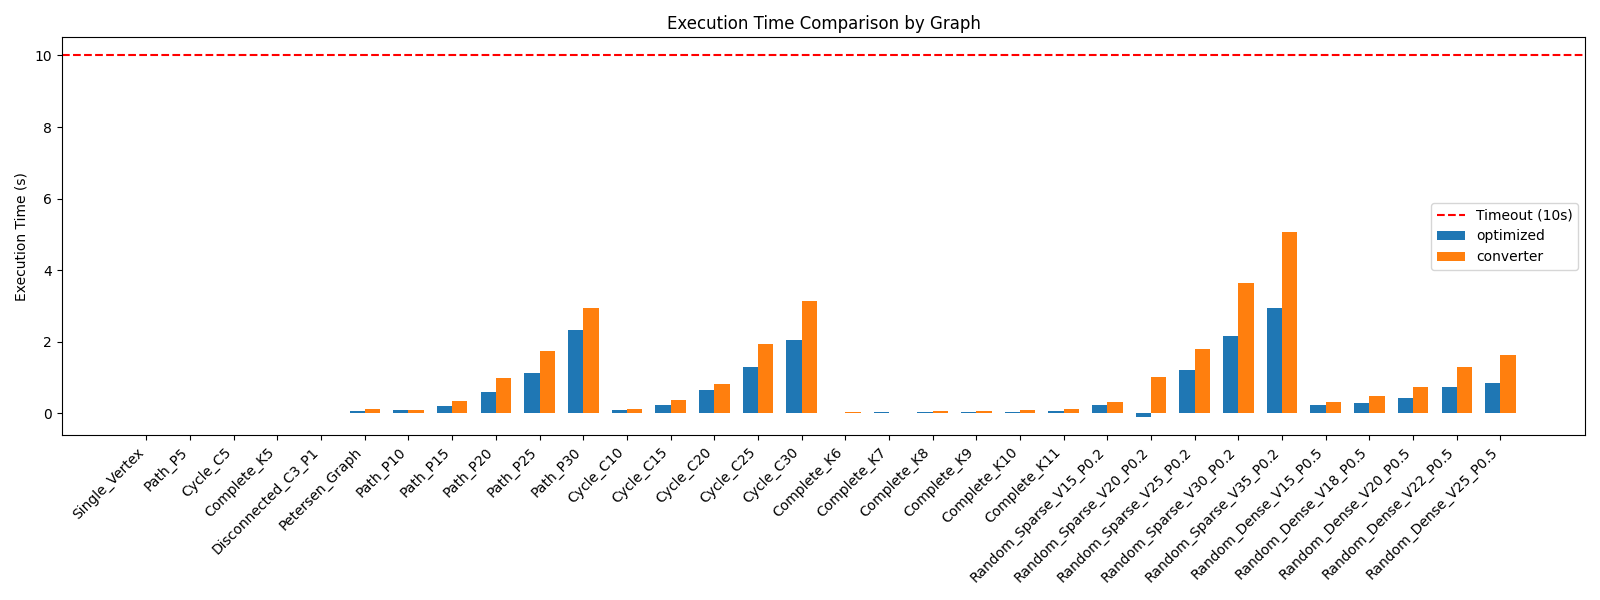
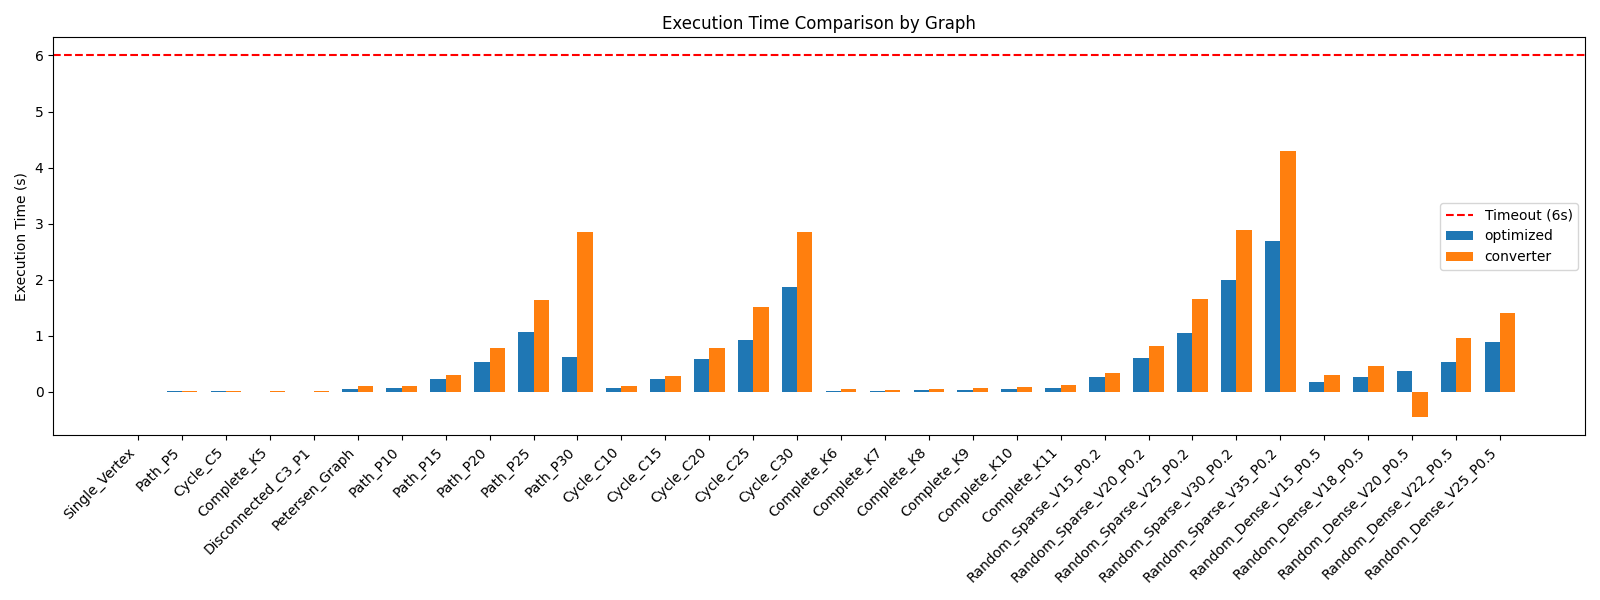
changed graph a bit

diff --git a/backend/HamToSAT/stress_test_results.tex b/backend/HamToSAT/stress_test_results.tex
@@ -34,67 +34,67 @@
 \endlastfoot
 Single\_Vertex & 1 & 0 & UNSAT / Incomplete & 0.000 & UNSAT / Incomplete & 0.000 \\
 \midrule
-Path\_P5 & 5 & 4 & 4 -\textgreater{} 3 -\textgreater{} 2 -\textgreater{} 1 -\textgreater{} 0 & 0.009 & 4 -\textgreater{} 3 -\textgreater{} 2 -\textgreater{} 1 -\textgreater{} 0 & 0.017 \\
+Path\_P5 & 5 & 4 & 4 -\textgreater{} 3 -\textgreater{} 2 -\textgreater{} 1 -\textgreater{} 0 & 0.020 & 4 -\textgreater{} 3 -\textgreater{} 2 -\textgreater{} 1 -\textgreater{} 0 & 0.012 \\
 \midrule
-Cycle\_C5 & 5 & 5 & 4 -\textgreater{} 3 -\textgreater{} 2 -\textgreater{} 1 -\textgreater{} 0 & 0.011 & 4 -\textgreater{} 3 -\textgreater{} 2 -\textgreater{} 1 -\textgreater{} 0 & 0.015 \\
+Cycle\_C5 & 5 & 5 & 4 -\textgreater{} 3 -\textgreater{} 2 -\textgreater{} 1 -\textgreater{} 0 & 0.012 & 4 -\textgreater{} 3 -\textgreater{} 2 -\textgreater{} 1 -\textgreater{} 0 & 0.011 \\
 \midrule
-Complete\_K5 & 5 & 10 & 4 -\textgreater{} 3 -\textgreater{} 2 -\textgreater{} 1 -\textgreater{} 0 & 0.011 & 4 -\textgreater{} 3 -\textgreater{} 2 -\textgreater{} 1 -\textgreater{} 0 & 0.011 \\
+Complete\_K5 & 5 & 10 & 4 -\textgreater{} 3 -\textgreater{} 2 -\textgreater{} 1 -\textgreater{} 0 & 0.007 & 4 -\textgreater{} 3 -\textgreater{} 2 -\textgreater{} 1 -\textgreater{} 0 & 0.011 \\
 \midrule
-Disconnected\_C3\_P1 & 4 & 3 & None (UNSAT/Error) & 0.008 & None (UNSAT/Error) & 0.010 \\
+Disconnected\_C3\_P1 & 4 & 3 & None (UNSAT/Error) & 0.006 & None (UNSAT/Error) & 0.010 \\
 \midrule
-Petersen\_Graph & 10 & 15 & 9 -\textgreater{} 6 -\textgreater{} 8 -\textgreater{} 5 -\textgreater{} 7 -\textgreater{} 2 -\textgreater{} 3 -\textgreater{} 4 -\textgreater{} 0 -\textgreater{} 1 & 0.073 & 9 -\textgreater{} 6 -\textgreater{} 8 -\textgreater{} 5 -\textgreater{} 7 -\textgreater{} 2 -\textgreater{} 3 -\textgreater{} 4 -\textgreater{} 0 -\textgreater{} 1 & 0.128 \\
+Petersen\_Graph & 10 & 15 & 9 -\textgreater{} 6 -\textgreater{} 8 -\textgreater{} 5 -\textgreater{} 7 -\textgreater{} 2 -\textgreater{} 3 -\textgreater{} 4 -\textgreater{} 0 -\textgreater{} 1 & 0.059 & 9 -\textgreater{} 6 -\textgreater{} 8 -\textgreater{} 5 -\textgreater{} 7 -\textgreater{} 2 -\textgreater{} 3 -\textgreater{} 4 -\textgreater{} 0 -\textgreater{} 1 & 0.103 \\
 \midrule
-Path\_P10 & 10 & 9 & 9 -\textgreater{} 8 -\textgreater{} 7 -\textgreater{} 6 -\textgreater{} 5 -\textgreater{} 4 -\textgreater{} 3 -\textgreater{} 2 -\textgreater{} 1 -\textgreater{} 0 & 0.081 & 9 -\textgreater{} 8 -\textgreater{} 7 -\textgreater{} 6 -\textgreater{} 5 -\textgreater{} 4 -\textgreater{} 3 -\textgreater{} 2 -\textgreater{} 1 -\textgreater{} 0 & 0.106 \\
+Path\_P10 & 10 & 9 & 9 -\textgreater{} 8 -\textgreater{} 7 -\textgreater{} 6 -\textgreater{} 5 -\textgreater{} 4 -\textgreater{} 3 -\textgreater{} 2 -\textgreater{} 1 -\textgreater{} 0 & 0.064 & 9 -\textgreater{} 8 -\textgreater{} 7 -\textgreater{} 6 -\textgreater{} 5 -\textgreater{} 4 -\textgreater{} 3 -\textgreater{} 2 -\textgreater{} 1 -\textgreater{} 0 & 0.098 \\
 \midrule
-Path\_P15 & 15 & 14 & 14 -\textgreater{} 13 -\textgreater{} 12 -\textgreater{} 11 -\textgreater{} 10 -\textgreater{} 9 -\textgreater{} 8 -\textgreater{} 7 -\textgreater{} 6 -\textgreater{} 5 -\textgreater{} 4 -\textgreater{} 3 -\textgreater{} 2 -\textgreater{} 1 -\textgreater{} 0 & 0.217 & 0 -\textgreater{} 1 -\textgreater{} 2 -\textgreater{} 3 -\textgreater{} 4 -\textgreater{} 5 -\textgreater{} 6 -\textgreater{} 7 -\textgreater{} 8 -\textgreater{} 9 -\textgreater{} 10 -\textgreater{} 11 -\textgreater{} 12 -\textgreater{} 13 -\textgreater{} 14 & 0.343 \\
+Path\_P15 & 15 & 14 & 14 -\textgreater{} 13 -\textgreater{} 12 -\textgreater{} 11 -\textgreater{} 10 -\textgreater{} 9 -\textgreater{} 8 -\textgreater{} 7 -\textgreater{} 6 -\textgreater{} 5 -\textgreater{} 4 -\textgreater{} 3 -\textgreater{} 2 -\textgreater{} 1 -\textgreater{} 0 & 0.223 & 0 -\textgreater{} 1 -\textgreater{} 2 -\textgreater{} 3 -\textgreater{} 4 -\textgreater{} 5 -\textgreater{} 6 -\textgreater{} 7 -\textgreater{} 8 -\textgreater{} 9 -\textgreater{} 10 -\textgreater{} 11 -\textgreater{} 12 -\textgreater{} 13 -\textgreater{} 14 & 0.305 \\
 \midrule
-Path\_P20 & 20 & 19 & 19 -\textgreater{} 18 -\textgreater{} 17 -\textgreater{} 16 -\textgreater{} 15 -\textgreater{} 14 -\textgreater{} 13 -\textgreater{} 12 -\textgreater{} 11 -\textgreater{} 10 -\textgreater{} 9 -\textgreater{} 8 -\textgreater{} 7 -\textgreater{} 6 -\textgreater{} 5 -\textgreater{} 4 -\textgreater{} 3 -\textgreater{} 2 -\textgreater{} 1 -\textgreater{} 0 & 0.598 & 19 -\textgreater{} 18 -\textgreater{} 17 -\textgreater{} 16 -\textgreater{} 15 -\textgreater{} 14 -\textgreater{} 13 -\textgreater{} 12 -\textgreater{} 11 -\textgreater{} 10 -\textgreater{} 9 -\textgreater{} 8 -\textgreater{} 7 -\textgreater{} 6 -\textgreater{} 5 -\textgreater{} 4 -\textgreater{} 3 -\textgreater{} 2 -\textgreater{} 1 -\textgreater{} 0 & 0.996 \\
+Path\_P20 & 20 & 19 & 19 -\textgreater{} 18 -\textgreater{} 17 -\textgreater{} 16 -\textgreater{} 15 -\textgreater{} 14 -\textgreater{} 13 -\textgreater{} 12 -\textgreater{} 11 -\textgreater{} 10 -\textgreater{} 9 -\textgreater{} 8 -\textgreater{} 7 -\textgreater{} 6 -\textgreater{} 5 -\textgreater{} 4 -\textgreater{} 3 -\textgreater{} 2 -\textgreater{} 1 -\textgreater{} 0 & 0.526 & 19 -\textgreater{} 18 -\textgreater{} 17 -\textgreater{} 16 -\textgreater{} 15 -\textgreater{} 14 -\textgreater{} 13 -\textgreater{} 12 -\textgreater{} 11 -\textgreater{} 10 -\textgreater{} 9 -\textgreater{} 8 -\textgreater{} 7 -\textgreater{} 6 -\textgreater{} 5 -\textgreater{} 4 -\textgreater{} 3 -\textgreater{} 2 -\textgreater{} 1 -\textgreater{} 0 & 0.779 \\
 \midrule
-Path\_P25 & 25 & 24 & 24 -\textgreater{} 23 -\textgreater{} 22 -\textgreater{} 21 -\textgreater{} 20 -\textgreater{} 19 -\textgreater{} 18 -\textgreater{} 17 -\textgreater{} 16 -\textgreater{} 15 -\textgreater{} 14 -\textgreater{} 13 -\textgreater{} 12 -\textgreater{} 11 -\textgreater{} 10 -\textgreater{} 9 -\textgreater{} 8 -\textgreater{} 7 -\textgreater{} 6 -\textgreater{} 5 -\textgreater{} 4 -\textgreater{} 3 -\textgreater{} 2 -\textgreater{} 1 -\textgreater{} 0 & 1.115 & 24 -\textgreater{} 23 -\textgreater{} 22 -\textgreater{} 21 -\textgreater{} 20 -\textgreater{} 19 -\textgreater{} 18 -\textgreater{} 17 -\textgreater{} 16 -\textgreater{} 15 -\textgreater{} 14 -\textgreater{} 13 -\textgreater{} 12 -\textgreater{} 11 -\textgreater{} 10 -\textgreater{} 9 -\textgreater{} 8 -\textgreater{} 7 -\textgreater{} 6 -\textgreater{} 5 -\textgreater{} 4 -\textgreater{} 3 -\textgreater{} 2 -\textgreater{} 1 -\textgreater{} 0 & 1.737 \\
+Path\_P25 & 25 & 24 & 24 -\textgreater{} 23 -\textgreater{} 22 -\textgreater{} 21 -\textgreater{} 20 -\textgreater{} 19 -\textgreater{} 18 -\textgreater{} 17 -\textgreater{} 16 -\textgreater{} 15 -\textgreater{} 14 -\textgreater{} 13 -\textgreater{} 12 -\textgreater{} 11 -\textgreater{} 10 -\textgreater{} 9 -\textgreater{} 8 -\textgreater{} 7 -\textgreater{} 6 -\textgreater{} 5 -\textgreater{} 4 -\textgreater{} 3 -\textgreater{} 2 -\textgreater{} 1 -\textgreater{} 0 & 1.063 & 24 -\textgreater{} 23 -\textgreater{} 22 -\textgreater{} 21 -\textgreater{} 20 -\textgreater{} 19 -\textgreater{} 18 -\textgreater{} 17 -\textgreater{} 16 -\textgreater{} 15 -\textgreater{} 14 -\textgreater{} 13 -\textgreater{} 12 -\textgreater{} 11 -\textgreater{} 10 -\textgreater{} 9 -\textgreater{} 8 -\textgreater{} 7 -\textgreater{} 6 -\textgreater{} 5 -\textgreater{} 4 -\textgreater{} 3 -\textgreater{} 2 -\textgreater{} 1 -\textgreater{} 0 & 1.636 \\
 \midrule
-Path\_P30 & 30 & 29 & 29 -\textgreater{} 28 -\textgreater{} 27 -\textgreater{} 26 -\textgreater{} 25 -\textgreater{} 24 -\textgreater{} 23 -\textgreater{} 22 -\textgreater{} 21 -\textgreater{} 20 -\textgreater{} 19 -\textgreater{} 18 -\textgreater{} 17 -\textgreater{} 16 -\textgreater{} 15 -\textgreater{} 14 -\textgreater{} 13 -\textgreater{} 12 -\textgreater{} 11 -\textgreater{} 10 -\textgreater{} 9 -\textgreater{} 8 -\textgreater{} 7 -\textgreater{} 6 -\textgreater{} 5 -\textgreater{} 4 -\textgreater{} 3 -\textgreater{} 2 -\textgreater{} 1 -\textgreater{} 0 & 2.318 & 29 -\textgreater{} 28 -\textgreater{} 27 -\textgreater{} 26 -\textgreater{} 25 -\textgreater{} 24 -\textgreater{} 23 -\textgreater{} 22 -\textgreater{} 21 -\textgreater{} 20 -\textgreater{} 19 -\textgreater{} 18 -\textgreater{} 17 -\textgreater{} 16 -\textgreater{} 15 -\textgreater{} 14 -\textgreater{} 13 -\textgreater{} 12 -\textgreater{} 11 -\textgreater{} 10 -\textgreater{} 9 -\textgreater{} 8 -\textgreater{} 7 -\textgreater{} 6 -\textgreater{} 5 -\textgreater{} 4 -\textgreater{} 3 -\textgreater{} 2 -\textgreater{} 1 -\textgreater{} 0 & 2.935 \\
+Path\_P30 & 30 & 29 & 29 -\textgreater{} 28 -\textgreater{} 27 -\textgreater{} 26 -\textgreater{} 25 -\textgreater{} 24 -\textgreater{} 23 -\textgreater{} 22 -\textgreater{} 21 -\textgreater{} 20 -\textgreater{} 19 -\textgreater{} 18 -\textgreater{} 17 -\textgreater{} 16 -\textgreater{} 15 -\textgreater{} 14 -\textgreater{} 13 -\textgreater{} 12 -\textgreater{} 11 -\textgreater{} 10 -\textgreater{} 9 -\textgreater{} 8 -\textgreater{} 7 -\textgreater{} 6 -\textgreater{} 5 -\textgreater{} 4 -\textgreater{} 3 -\textgreater{} 2 -\textgreater{} 1 -\textgreater{} 0 & 0.626 & 29 -\textgreater{} 28 -\textgreater{} 27 -\textgreater{} 26 -\textgreater{} 25 -\textgreater{} 24 -\textgreater{} 23 -\textgreater{} 22 -\textgreater{} 21 -\textgreater{} 20 -\textgreater{} 19 -\textgreater{} 18 -\textgreater{} 17 -\textgreater{} 16 -\textgreater{} 15 -\textgreater{} 14 -\textgreater{} 13 -\textgreater{} 12 -\textgreater{} 11 -\textgreater{} 10 -\textgreater{} 9 -\textgreater{} 8 -\textgreater{} 7 -\textgreater{} 6 -\textgreater{} 5 -\textgreater{} 4 -\textgreater{} 3 -\textgreater{} 2 -\textgreater{} 1 -\textgreater{} 0 & 2.855 \\
 \midrule
-Cycle\_C10 & 10 & 10 & 9 -\textgreater{} 8 -\textgreater{} 7 -\textgreater{} 6 -\textgreater{} 5 -\textgreater{} 4 -\textgreater{} 3 -\textgreater{} 2 -\textgreater{} 1 -\textgreater{} 0 & 0.081 & 9 -\textgreater{} 8 -\textgreater{} 7 -\textgreater{} 6 -\textgreater{} 5 -\textgreater{} 4 -\textgreater{} 3 -\textgreater{} 2 -\textgreater{} 1 -\textgreater{} 0 & 0.131 \\
+Cycle\_C10 & 10 & 10 & 9 -\textgreater{} 8 -\textgreater{} 7 -\textgreater{} 6 -\textgreater{} 5 -\textgreater{} 4 -\textgreater{} 3 -\textgreater{} 2 -\textgreater{} 1 -\textgreater{} 0 & 0.071 & 9 -\textgreater{} 8 -\textgreater{} 7 -\textgreater{} 6 -\textgreater{} 5 -\textgreater{} 4 -\textgreater{} 3 -\textgreater{} 2 -\textgreater{} 1 -\textgreater{} 0 & 0.103 \\
 \midrule
-Cycle\_C15 & 15 & 15 & 14 -\textgreater{} 0 -\textgreater{} 1 -\textgreater{} 2 -\textgreater{} 3 -\textgreater{} 4 -\textgreater{} 5 -\textgreater{} 6 -\textgreater{} 7 -\textgreater{} 8 -\textgreater{} 9 -\textgreater{} 10 -\textgreater{} 11 -\textgreater{} 12 -\textgreater{} 13 & 0.237 & 14 -\textgreater{} 0 -\textgreater{} 1 -\textgreater{} 2 -\textgreater{} 3 -\textgreater{} 4 -\textgreater{} 5 -\textgreater{} 6 -\textgreater{} 7 -\textgreater{} 8 -\textgreater{} 9 -\textgreater{} 10 -\textgreater{} 11 -\textgreater{} 12 -\textgreater{} 13 & 0.360 \\
+Cycle\_C15 & 15 & 15 & 14 -\textgreater{} 0 -\textgreater{} 1 -\textgreater{} 2 -\textgreater{} 3 -\textgreater{} 4 -\textgreater{} 5 -\textgreater{} 6 -\textgreater{} 7 -\textgreater{} 8 -\textgreater{} 9 -\textgreater{} 10 -\textgreater{} 11 -\textgreater{} 12 -\textgreater{} 13 & 0.227 & 14 -\textgreater{} 0 -\textgreater{} 1 -\textgreater{} 2 -\textgreater{} 3 -\textgreater{} 4 -\textgreater{} 5 -\textgreater{} 6 -\textgreater{} 7 -\textgreater{} 8 -\textgreater{} 9 -\textgreater{} 10 -\textgreater{} 11 -\textgreater{} 12 -\textgreater{} 13 & 0.281 \\
 \midrule
-Cycle\_C20 & 20 & 20 & 19 -\textgreater{} 18 -\textgreater{} 17 -\textgreater{} 16 -\textgreater{} 15 -\textgreater{} 14 -\textgreater{} 13 -\textgreater{} 12 -\textgreater{} 11 -\textgreater{} 10 -\textgreater{} 9 -\textgreater{} 8 -\textgreater{} 7 -\textgreater{} 6 -\textgreater{} 5 -\textgreater{} 4 -\textgreater{} 3 -\textgreater{} 2 -\textgreater{} 1 -\textgreater{} 0 & 0.647 & 19 -\textgreater{} 18 -\textgreater{} 17 -\textgreater{} 16 -\textgreater{} 15 -\textgreater{} 14 -\textgreater{} 13 -\textgreater{} 12 -\textgreater{} 11 -\textgreater{} 10 -\textgreater{} 9 -\textgreater{} 8 -\textgreater{} 7 -\textgreater{} 6 -\textgreater{} 5 -\textgreater{} 4 -\textgreater{} 3 -\textgreater{} 2 -\textgreater{} 1 -\textgreater{} 0 & 0.831 \\
+Cycle\_C20 & 20 & 20 & 19 -\textgreater{} 18 -\textgreater{} 17 -\textgreater{} 16 -\textgreater{} 15 -\textgreater{} 14 -\textgreater{} 13 -\textgreater{} 12 -\textgreater{} 11 -\textgreater{} 10 -\textgreater{} 9 -\textgreater{} 8 -\textgreater{} 7 -\textgreater{} 6 -\textgreater{} 5 -\textgreater{} 4 -\textgreater{} 3 -\textgreater{} 2 -\textgreater{} 1 -\textgreater{} 0 & 0.584 & 19 -\textgreater{} 18 -\textgreater{} 17 -\textgreater{} 16 -\textgreater{} 15 -\textgreater{} 14 -\textgreater{} 13 -\textgreater{} 12 -\textgreater{} 11 -\textgreater{} 10 -\textgreater{} 9 -\textgreater{} 8 -\textgreater{} 7 -\textgreater{} 6 -\textgreater{} 5 -\textgreater{} 4 -\textgreater{} 3 -\textgreater{} 2 -\textgreater{} 1 -\textgreater{} 0 & 0.790 \\
 \midrule
-Cycle\_C25 & 25 & 25 & 24 -\textgreater{} 0 -\textgreater{} 1 -\textgreater{} 2 -\textgreater{} 3 -\textgreater{} 4 -\textgreater{} 5 -\textgreater{} 6 -\textgreater{} 7 -\textgreater{} 8 -\textgreater{} 9 -\textgreater{} 10 -\textgreater{} 11 -\textgreater{} 12 -\textgreater{} 13 -\textgreater{} 14 -\textgreater{} 15 -\textgreater{} 16 -\textgreater{} 17 -\textgreater{} 18 -\textgreater{} 19 -\textgreater{} 20 -\textgreater{} 21 -\textgreater{} 22 -\textgreater{} 23 & 1.284 & 23 -\textgreater{} 24 -\textgreater{} 0 -\textgreater{} 1 -\textgreater{} 2 -\textgreater{} 3 -\textgreater{} 4 -\textgreater{} 5 -\textgreater{} 6 -\textgreater{} 7 -\textgreater{} 8 -\textgreater{} 9 -\textgreater{} 10 -\textgreater{} 11 -\textgreater{} 12 -\textgreater{} 13 -\textgreater{} 14 -\textgreater{} 15 -\textgreater{} 16 -\textgreater{} 17 -\textgreater{} 18 -\textgreater{} 19 -\textgreater{} 20 -\textgreater{} 21 -\textgreater{} 22 & 1.929 \\
+Cycle\_C25 & 25 & 25 & 24 -\textgreater{} 0 -\textgreater{} 1 -\textgreater{} 2 -\textgreater{} 3 -\textgreater{} 4 -\textgreater{} 5 -\textgreater{} 6 -\textgreater{} 7 -\textgreater{} 8 -\textgreater{} 9 -\textgreater{} 10 -\textgreater{} 11 -\textgreater{} 12 -\textgreater{} 13 -\textgreater{} 14 -\textgreater{} 15 -\textgreater{} 16 -\textgreater{} 17 -\textgreater{} 18 -\textgreater{} 19 -\textgreater{} 20 -\textgreater{} 21 -\textgreater{} 22 -\textgreater{} 23 & 0.934 & 23 -\textgreater{} 24 -\textgreater{} 0 -\textgreater{} 1 -\textgreater{} 2 -\textgreater{} 3 -\textgreater{} 4 -\textgreater{} 5 -\textgreater{} 6 -\textgreater{} 7 -\textgreater{} 8 -\textgreater{} 9 -\textgreater{} 10 -\textgreater{} 11 -\textgreater{} 12 -\textgreater{} 13 -\textgreater{} 14 -\textgreater{} 15 -\textgreater{} 16 -\textgreater{} 17 -\textgreater{} 18 -\textgreater{} 19 -\textgreater{} 20 -\textgreater{} 21 -\textgreater{} 22 & 1.517 \\
 \midrule
-Cycle\_C30 & 30 & 30 & 29 -\textgreater{} 28 -\textgreater{} 27 -\textgreater{} 26 -\textgreater{} 25 -\textgreater{} 24 -\textgreater{} 23 -\textgreater{} 22 -\textgreater{} 21 -\textgreater{} 20 -\textgreater{} 19 -\textgreater{} 18 -\textgreater{} 17 -\textgreater{} 16 -\textgreater{} 15 -\textgreater{} 14 -\textgreater{} 13 -\textgreater{} 12 -\textgreater{} 11 -\textgreater{} 10 -\textgreater{} 9 -\textgreater{} 8 -\textgreater{} 7 -\textgreater{} 6 -\textgreater{} 5 -\textgreater{} 4 -\textgreater{} 3 -\textgreater{} 2 -\textgreater{} 1 -\textgreater{} 0 & 2.039 & 29 -\textgreater{} 28 -\textgreater{} 27 -\textgreater{} 26 -\textgreater{} 25 -\textgreater{} 24 -\textgreater{} 23 -\textgreater{} 22 -\textgreater{} 21 -\textgreater{} 20 -\textgreater{} 19 -\textgreater{} 18 -\textgreater{} 17 -\textgreater{} 16 -\textgreater{} 15 -\textgreater{} 14 -\textgreater{} 13 -\textgreater{} 12 -\textgreater{} 11 -\textgreater{} 10 -\textgreater{} 9 -\textgreater{} 8 -\textgreater{} 7 -\textgreater{} 6 -\textgreater{} 5 -\textgreater{} 4 -\textgreater{} 3 -\textgreater{} 2 -\textgreater{} 1 -\textgreater{} 0 & 3.125 \\
+Cycle\_C30 & 30 & 30 & 29 -\textgreater{} 28 -\textgreater{} 27 -\textgreater{} 26 -\textgreater{} 25 -\textgreater{} 24 -\textgreater{} 23 -\textgreater{} 22 -\textgreater{} 21 -\textgreater{} 20 -\textgreater{} 19 -\textgreater{} 18 -\textgreater{} 17 -\textgreater{} 16 -\textgreater{} 15 -\textgreater{} 14 -\textgreater{} 13 -\textgreater{} 12 -\textgreater{} 11 -\textgreater{} 10 -\textgreater{} 9 -\textgreater{} 8 -\textgreater{} 7 -\textgreater{} 6 -\textgreater{} 5 -\textgreater{} 4 -\textgreater{} 3 -\textgreater{} 2 -\textgreater{} 1 -\textgreater{} 0 & 1.868 & 29 -\textgreater{} 28 -\textgreater{} 27 -\textgreater{} 26 -\textgreater{} 25 -\textgreater{} 24 -\textgreater{} 23 -\textgreater{} 22 -\textgreater{} 21 -\textgreater{} 20 -\textgreater{} 19 -\textgreater{} 18 -\textgreater{} 17 -\textgreater{} 16 -\textgreater{} 15 -\textgreater{} 14 -\textgreater{} 13 -\textgreater{} 12 -\textgreater{} 11 -\textgreater{} 10 -\textgreater{} 9 -\textgreater{} 8 -\textgreater{} 7 -\textgreater{} 6 -\textgreater{} 5 -\textgreater{} 4 -\textgreater{} 3 -\textgreater{} 2 -\textgreater{} 1 -\textgreater{} 0 & 2.854 \\
 \midrule
-Complete\_K6 & 6 & 15 & 5 -\textgreater{} 4 -\textgreater{} 3 -\textgreater{} 2 -\textgreater{} 1 -\textgreater{} 0 & 0.015 & 5 -\textgreater{} 4 -\textgreater{} 3 -\textgreater{} 2 -\textgreater{} 1 -\textgreater{} 0 & 0.041 \\
+Complete\_K6 & 6 & 15 & 5 -\textgreater{} 4 -\textgreater{} 3 -\textgreater{} 2 -\textgreater{} 1 -\textgreater{} 0 & 0.017 & 5 -\textgreater{} 4 -\textgreater{} 3 -\textgreater{} 2 -\textgreater{} 1 -\textgreater{} 0 & 0.045 \\
 \midrule
-Complete\_K7 & 7 & 21 & 6 -\textgreater{} 4 -\textgreater{} 5 -\textgreater{} 3 -\textgreater{} 1 -\textgreater{} 2 -\textgreater{} 0 & 0.037 & 6 -\textgreater{} 4 -\textgreater{} 5 -\textgreater{} 3 -\textgreater{} 1 -\textgreater{} 2 -\textgreater{} 0 & 0.020 \\
+Complete\_K7 & 7 & 21 & 6 -\textgreater{} 4 -\textgreater{} 5 -\textgreater{} 3 -\textgreater{} 1 -\textgreater{} 2 -\textgreater{} 0 & 0.020 & 6 -\textgreater{} 4 -\textgreater{} 5 -\textgreater{} 3 -\textgreater{} 1 -\textgreater{} 2 -\textgreater{} 0 & 0.044 \\
 \midrule
-Complete\_K8 & 8 & 28 & 7 -\textgreater{} 6 -\textgreater{} 5 -\textgreater{} 4 -\textgreater{} 3 -\textgreater{} 2 -\textgreater{} 1 -\textgreater{} 0 & 0.029 & 7 -\textgreater{} 6 -\textgreater{} 5 -\textgreater{} 4 -\textgreater{} 3 -\textgreater{} 2 -\textgreater{} 1 -\textgreater{} 0 & 0.058 \\
+Complete\_K8 & 8 & 28 & 7 -\textgreater{} 6 -\textgreater{} 5 -\textgreater{} 4 -\textgreater{} 3 -\textgreater{} 2 -\textgreater{} 1 -\textgreater{} 0 & 0.027 & 7 -\textgreater{} 6 -\textgreater{} 5 -\textgreater{} 4 -\textgreater{} 3 -\textgreater{} 2 -\textgreater{} 1 -\textgreater{} 0 & 0.058 \\
 \midrule
-Complete\_K9 & 9 & 36 & 8 -\textgreater{} 7 -\textgreater{} 6 -\textgreater{} 5 -\textgreater{} 4 -\textgreater{} 3 -\textgreater{} 2 -\textgreater{} 1 -\textgreater{} 0 & 0.034 & 8 -\textgreater{} 7 -\textgreater{} 6 -\textgreater{} 5 -\textgreater{} 4 -\textgreater{} 3 -\textgreater{} 2 -\textgreater{} 1 -\textgreater{} 0 & 0.064 \\
+Complete\_K9 & 9 & 36 & 8 -\textgreater{} 7 -\textgreater{} 6 -\textgreater{} 5 -\textgreater{} 4 -\textgreater{} 3 -\textgreater{} 2 -\textgreater{} 1 -\textgreater{} 0 & 0.037 & 8 -\textgreater{} 7 -\textgreater{} 6 -\textgreater{} 5 -\textgreater{} 4 -\textgreater{} 3 -\textgreater{} 2 -\textgreater{} 1 -\textgreater{} 0 & 0.068 \\
 \midrule
-Complete\_K10 & 10 & 45 & 9 -\textgreater{} 8 -\textgreater{} 7 -\textgreater{} 6 -\textgreater{} 5 -\textgreater{} 4 -\textgreater{} 3 -\textgreater{} 2 -\textgreater{} 1 -\textgreater{} 0 & 0.045 & 9 -\textgreater{} 8 -\textgreater{} 7 -\textgreater{} 6 -\textgreater{} 5 -\textgreater{} 4 -\textgreater{} 3 -\textgreater{} 2 -\textgreater{} 1 -\textgreater{} 0 & 0.084 \\
+Complete\_K10 & 10 & 45 & 9 -\textgreater{} 8 -\textgreater{} 7 -\textgreater{} 6 -\textgreater{} 5 -\textgreater{} 4 -\textgreater{} 3 -\textgreater{} 2 -\textgreater{} 1 -\textgreater{} 0 & 0.047 & 9 -\textgreater{} 8 -\textgreater{} 7 -\textgreater{} 6 -\textgreater{} 5 -\textgreater{} 4 -\textgreater{} 3 -\textgreater{} 2 -\textgreater{} 1 -\textgreater{} 0 & 0.080 \\
 \midrule
-Complete\_K11 & 11 & 55 & 10 -\textgreater{} 9 -\textgreater{} 8 -\textgreater{} 7 -\textgreater{} 6 -\textgreater{} 5 -\textgreater{} 4 -\textgreater{} 2 -\textgreater{} 3 -\textgreater{} 1 -\textgreater{} 0 & 0.055 & 10 -\textgreater{} 9 -\textgreater{} 8 -\textgreater{} 7 -\textgreater{} 6 -\textgreater{} 5 -\textgreater{} 4 -\textgreater{} 2 -\textgreater{} 3 -\textgreater{} 1 -\textgreater{} 0 & 0.111 \\
+Complete\_K11 & 11 & 55 & 10 -\textgreater{} 9 -\textgreater{} 8 -\textgreater{} 7 -\textgreater{} 6 -\textgreater{} 5 -\textgreater{} 4 -\textgreater{} 2 -\textgreater{} 3 -\textgreater{} 1 -\textgreater{} 0 & 0.067 & 10 -\textgreater{} 9 -\textgreater{} 8 -\textgreater{} 7 -\textgreater{} 6 -\textgreater{} 5 -\textgreater{} 4 -\textgreater{} 2 -\textgreater{} 3 -\textgreater{} 1 -\textgreater{} 0 & 0.129 \\
 \midrule
-Random\_Sparse\_V15\_P0.2 & 15 & 22 & None (UNSAT/Error) & 0.232 & None (UNSAT/Error) & 0.323 \\
+Random\_Sparse\_V15\_P0.2 & 15 & 14 & None (UNSAT/Error) & 0.261 & None (UNSAT/Error) & 0.340 \\
 \midrule
-Random\_Sparse\_V20\_P0.2 & 20 & 43 & None (UNSAT/Error) & -0.112 & None (UNSAT/Error) & 1.008 \\
+Random\_Sparse\_V20\_P0.2 & 20 & 34 & 3 -\textgreater{} 6 -\textgreater{} 18 -\textgreater{} 5 -\textgreater{} 17 -\textgreater{} 4 -\textgreater{} 12 -\textgreater{} 2 -\textgreater{} 13 -\textgreater{} 16 -\textgreater{} 15 -\textgreater{} 1 -\textgreater{} 7 -\textgreater{} 11 -\textgreater{} 14 -\textgreater{} 10 -\textgreater{} 19 -\textgreater{} 0 -\textgreater{} 9 -\textgreater{} 8 & 0.599 & 3 -\textgreater{} 6 -\textgreater{} 18 -\textgreater{} 8 -\textgreater{} 9 -\textgreater{} 16 -\textgreater{} 15 -\textgreater{} 1 -\textgreater{} 7 -\textgreater{} 11 -\textgreater{} 14 -\textgreater{} 10 -\textgreater{} 19 -\textgreater{} 0 -\textgreater{} 13 -\textgreater{} 2 -\textgreater{} 12 -\textgreater{} 4 -\textgreater{} 17 -\textgreater{} 5 & 0.814 \\
 \midrule
-Random\_Sparse\_V25\_P0.2 & 25 & 61 & 1 -\textgreater{} 23 -\textgreater{} 3 -\textgreater{} 0 -\textgreater{} 12 -\textgreater{} 20 -\textgreater{} 19 -\textgreater{} 22 -\textgreater{} 9 -\textgreater{} 4 -\textgreater{} 6 -\textgreater{} 16 -\textgreater{} 11 -\textgreater{} 15 -\textgreater{} 24 -\textgreater{} 18 -\textgreater{} 8 -\textgreater{} 17 -\textgreater{} 10 -\textgreater{} 7 -\textgreater{} 21 -\textgreater{} 13 -\textgreater{} 14 -\textgreater{} 2 -\textgreater{} 5 & 1.220 & 1 -\textgreater{} 14 -\textgreater{} 22 -\textgreater{} 15 -\textgreater{} 5 -\textgreater{} 2 -\textgreater{} 3 -\textgreater{} 23 -\textgreater{} 4 -\textgreater{} 6 -\textgreater{} 16 -\textgreater{} 13 -\textgreater{} 21 -\textgreater{} 7 -\textgreater{} 9 -\textgreater{} 10 -\textgreater{} 17 -\textgreater{} 11 -\textgreater{} 0 -\textgreater{} 12 -\textgreater{} 8 -\textgreater{} 18 -\textgreater{} 24 -\textgreater{} 20 -\textgreater{} 19 & 1.788 \\
+Random\_Sparse\_V25\_P0.2 & 25 & 66 & 1 -\textgreater{} 13 -\textgreater{} 24 -\textgreater{} 11 -\textgreater{} 2 -\textgreater{} 12 -\textgreater{} 4 -\textgreater{} 20 -\textgreater{} 7 -\textgreater{} 6 -\textgreater{} 0 -\textgreater{} 16 -\textgreater{} 9 -\textgreater{} 22 -\textgreater{} 8 -\textgreater{} 19 -\textgreater{} 10 -\textgreater{} 14 -\textgreater{} 18 -\textgreater{} 15 -\textgreater{} 3 -\textgreater{} 21 -\textgreater{} 23 -\textgreater{} 5 -\textgreater{} 17 & 1.046 & 9 -\textgreater{} 4 -\textgreater{} 12 -\textgreater{} 2 -\textgreater{} 22 -\textgreater{} 1 -\textgreater{} 14 -\textgreater{} 18 -\textgreater{} 19 -\textgreater{} 8 -\textgreater{} 5 -\textgreater{} 17 -\textgreater{} 23 -\textgreater{} 21 -\textgreater{} 3 -\textgreater{} 15 -\textgreater{} 13 -\textgreater{} 10 -\textgreater{} 16 -\textgreater{} 0 -\textgreater{} 6 -\textgreater{} 7 -\textgreater{} 20 -\textgreater{} 24 -\textgreater{} 11 & 1.654 \\
 \midrule
-Random\_Sparse\_V30\_P0.2 & 30 & 85 & 17 -\textgreater{} 22 -\textgreater{} 7 -\textgreater{} 9 -\textgreater{} 4 -\textgreater{} 27 -\textgreater{} 1 -\textgreater{} 25 -\textgreater{} 24 -\textgreater{} 13 -\textgreater{} 20 -\textgreater{} 21 -\textgreater{} 11 -\textgreater{} 10 -\textgreater{} 5 -\textgreater{} 26 -\textgreater{} 18 -\textgreater{} 2 -\textgreater{} 0 -\textgreater{} 12 -\textgreater{} 16 -\textgreater{} 8 -\textgreater{} 29 -\textgreater{} 6 -\textgreater{} 28 -\textgreater{} 19 -\textgreater{} 3 -\textgreater{} 15 -\textgreater{} 23 -\textgreater{} 14 & 2.152 & 12 -\textgreater{} 27 -\textgreater{} 4 -\textgreater{} 9 -\textgreater{} 28 -\textgreater{} 19 -\textgreater{} 3 -\textgreater{} 15 -\textgreater{} 0 -\textgreater{} 20 -\textgreater{} 13 -\textgreater{} 24 -\textgreater{} 5 -\textgreater{} 10 -\textgreater{} 1 -\textgreater{} 21 -\textgreater{} 11 -\textgreater{} 17 -\textgreater{} 8 -\textgreater{} 16 -\textgreater{} 14 -\textgreater{} 23 -\textgreater{} 26 -\textgreater{} 18 -\textgreater{} 2 -\textgreater{} 6 -\textgreater{} 29 -\textgreater{} 7 -\textgreater{} 22 -\textgreater{} 25 & 3.645 \\
+Random\_Sparse\_V30\_P0.2 & 30 & 92 & 11 -\textgreater{} 23 -\textgreater{} 20 -\textgreater{} 10 -\textgreater{} 29 -\textgreater{} 24 -\textgreater{} 6 -\textgreater{} 18 -\textgreater{} 17 -\textgreater{} 19 -\textgreater{} 1 -\textgreater{} 2 -\textgreater{} 21 -\textgreater{} 16 -\textgreater{} 12 -\textgreater{} 22 -\textgreater{} 26 -\textgreater{} 0 -\textgreater{} 28 -\textgreater{} 27 -\textgreater{} 13 -\textgreater{} 8 -\textgreater{} 7 -\textgreater{} 25 -\textgreater{} 15 -\textgreater{} 5 -\textgreater{} 9 -\textgreater{} 14 -\textgreater{} 3 -\textgreater{} 4 & 1.991 & 4 -\textgreater{} 3 -\textgreater{} 22 -\textgreater{} 12 -\textgreater{} 21 -\textgreater{} 2 -\textgreater{} 7 -\textgreater{} 8 -\textgreater{} 24 -\textgreater{} 6 -\textgreater{} 20 -\textgreater{} 14 -\textgreater{} 23 -\textgreater{} 11 -\textgreater{} 18 -\textgreater{} 17 -\textgreater{} 19 -\textgreater{} 9 -\textgreater{} 16 -\textgreater{} 26 -\textgreater{} 0 -\textgreater{} 10 -\textgreater{} 29 -\textgreater{} 13 -\textgreater{} 27 -\textgreater{} 28 -\textgreater{} 1 -\textgreater{} 25 -\textgreater{} 15 -\textgreater{} 5 & 2.892 \\
 \midrule
-Random\_Sparse\_V35\_P0.2 & 35 & 119 & 34 -\textgreater{} 27 -\textgreater{} 33 -\textgreater{} 10 -\textgreater{} 32 -\textgreater{} 31 -\textgreater{} 20 -\textgreater{} 16 -\textgreater{} 25 -\textgreater{} 26 -\textgreater{} 1 -\textgreater{} 13 -\textgreater{} 23 -\textgreater{} 19 -\textgreater{} 2 -\textgreater{} 9 -\textgreater{} 3 -\textgreater{} 5 -\textgreater{} 24 -\textgreater{} 12 -\textgreater{} 8 -\textgreater{} 29 -\textgreater{} 22 -\textgreater{} 6 -\textgreater{} 18 -\textgreater{} 15 -\textgreater{} 30 -\textgreater{} 7 -\textgreater{} 4 -\textgreater{} 11 -\textgreater{} 14 -\textgreater{} 21 -\textgreater{} 17 -\textgreater{} 28 -\textgreater{} 0 & 2.947 & 34 -\textgreater{} 27 -\textgreater{} 33 -\textgreater{} 10 -\textgreater{} 32 -\textgreater{} 31 -\textgreater{} 20 -\textgreater{} 16 -\textgreater{} 25 -\textgreater{} 26 -\textgreater{} 1 -\textgreater{} 24 -\textgreater{} 23 -\textgreater{} 19 -\textgreater{} 2 -\textgreater{} 9 -\textgreater{} 3 -\textgreater{} 5 -\textgreater{} 6 -\textgreater{} 22 -\textgreater{} 29 -\textgreater{} 8 -\textgreater{} 12 -\textgreater{} 13 -\textgreater{} 18 -\textgreater{} 15 -\textgreater{} 30 -\textgreater{} 7 -\textgreater{} 4 -\textgreater{} 11 -\textgreater{} 14 -\textgreater{} 21 -\textgreater{} 17 -\textgreater{} 28 -\textgreater{} 0 & 5.063 \\
+Random\_Sparse\_V35\_P0.2 & 35 & 116 & 4 -\textgreater{} 27 -\textgreater{} 2 -\textgreater{} 15 -\textgreater{} 25 -\textgreater{} 19 -\textgreater{} 6 -\textgreater{} 33 -\textgreater{} 8 -\textgreater{} 16 -\textgreater{} 5 -\textgreater{} 21 -\textgreater{} 10 -\textgreater{} 28 -\textgreater{} 32 -\textgreater{} 13 -\textgreater{} 0 -\textgreater{} 23 -\textgreater{} 14 -\textgreater{} 34 -\textgreater{} 11 -\textgreater{} 17 -\textgreater{} 26 -\textgreater{} 1 -\textgreater{} 31 -\textgreater{} 22 -\textgreater{} 29 -\textgreater{} 7 -\textgreater{} 9 -\textgreater{} 24 -\textgreater{} 3 -\textgreater{} 20 -\textgreater{} 18 -\textgreater{} 12 -\textgreater{} 30 & 2.697 & 4 -\textgreater{} 27 -\textgreater{} 8 -\textgreater{} 16 -\textgreater{} 5 -\textgreater{} 33 -\textgreater{} 6 -\textgreater{} 7 -\textgreater{} 9 -\textgreater{} 13 -\textgreater{} 3 -\textgreater{} 28 -\textgreater{} 21 -\textgreater{} 10 -\textgreater{} 29 -\textgreater{} 22 -\textgreater{} 26 -\textgreater{} 17 -\textgreater{} 11 -\textgreater{} 23 -\textgreater{} 24 -\textgreater{} 15 -\textgreater{} 25 -\textgreater{} 19 -\textgreater{} 20 -\textgreater{} 18 -\textgreater{} 0 -\textgreater{} 34 -\textgreater{} 2 -\textgreater{} 14 -\textgreater{} 32 -\textgreater{} 31 -\textgreater{} 1 -\textgreater{} 12 -\textgreater{} 30 & 4.298 \\
 \midrule
-Random\_Dense\_V15\_P0.5 & 15 & 47 & 14 -\textgreater{} 12 -\textgreater{} 13 -\textgreater{} 11 -\textgreater{} 1 -\textgreater{} 10 -\textgreater{} 9 -\textgreater{} 7 -\textgreater{} 8 -\textgreater{} 3 -\textgreater{} 4 -\textgreater{} 6 -\textgreater{} 5 -\textgreater{} 0 -\textgreater{} 2 & 0.233 & 14 -\textgreater{} 12 -\textgreater{} 13 -\textgreater{} 11 -\textgreater{} 1 -\textgreater{} 10 -\textgreater{} 9 -\textgreater{} 7 -\textgreater{} 8 -\textgreater{} 3 -\textgreater{} 4 -\textgreater{} 2 -\textgreater{} 0 -\textgreater{} 5 -\textgreater{} 6 & 0.330 \\
+Random\_Dense\_V15\_P0.5 & 15 & 43 & 14 -\textgreater{} 0 -\textgreater{} 13 -\textgreater{} 12 -\textgreater{} 7 -\textgreater{} 11 -\textgreater{} 3 -\textgreater{} 9 -\textgreater{} 10 -\textgreater{} 5 -\textgreater{} 4 -\textgreater{} 1 -\textgreater{} 8 -\textgreater{} 2 -\textgreater{} 6 & 0.176 & 14 -\textgreater{} 0 -\textgreater{} 13 -\textgreater{} 12 -\textgreater{} 7 -\textgreater{} 11 -\textgreater{} 3 -\textgreater{} 9 -\textgreater{} 10 -\textgreater{} 6 -\textgreater{} 2 -\textgreater{} 8 -\textgreater{} 1 -\textgreater{} 4 -\textgreater{} 5 & 0.304 \\
 \midrule
-Random\_Dense\_V18\_P0.5 & 18 & 82 & 17 -\textgreater{} 16 -\textgreater{} 15 -\textgreater{} 13 -\textgreater{} 14 -\textgreater{} 9 -\textgreater{} 12 -\textgreater{} 10 -\textgreater{} 11 -\textgreater{} 6 -\textgreater{} 8 -\textgreater{} 2 -\textgreater{} 7 -\textgreater{} 3 -\textgreater{} 5 -\textgreater{} 0 -\textgreater{} 4 -\textgreater{} 1 & 0.300 & 17 -\textgreater{} 16 -\textgreater{} 15 -\textgreater{} 13 -\textgreater{} 14 -\textgreater{} 9 -\textgreater{} 12 -\textgreater{} 10 -\textgreater{} 11 -\textgreater{} 6 -\textgreater{} 8 -\textgreater{} 2 -\textgreater{} 7 -\textgreater{} 3 -\textgreater{} 5 -\textgreater{} 0 -\textgreater{} 4 -\textgreater{} 1 & 0.495 \\
+Random\_Dense\_V18\_P0.5 & 18 & 74 & 17 -\textgreater{} 15 -\textgreater{} 16 -\textgreater{} 14 -\textgreater{} 13 -\textgreater{} 5 -\textgreater{} 12 -\textgreater{} 7 -\textgreater{} 11 -\textgreater{} 9 -\textgreater{} 10 -\textgreater{} 8 -\textgreater{} 4 -\textgreater{} 6 -\textgreater{} 2 -\textgreater{} 3 -\textgreater{} 1 -\textgreater{} 0 & 0.272 & 17 -\textgreater{} 15 -\textgreater{} 16 -\textgreater{} 14 -\textgreater{} 13 -\textgreater{} 5 -\textgreater{} 12 -\textgreater{} 7 -\textgreater{} 11 -\textgreater{} 9 -\textgreater{} 10 -\textgreater{} 8 -\textgreater{} 4 -\textgreater{} 6 -\textgreater{} 2 -\textgreater{} 3 -\textgreater{} 1 -\textgreater{} 0 & 0.456 \\
 \midrule
-Random\_Dense\_V20\_P0.5 & 20 & 93 & 19 -\textgreater{} 15 -\textgreater{} 18 -\textgreater{} 8 -\textgreater{} 17 -\textgreater{} 10 -\textgreater{} 16 -\textgreater{} 13 -\textgreater{} 14 -\textgreater{} 11 -\textgreater{} 12 -\textgreater{} 7 -\textgreater{} 9 -\textgreater{} 6 -\textgreater{} 0 -\textgreater{} 5 -\textgreater{} 1 -\textgreater{} 2 -\textgreater{} 4 -\textgreater{} 3 & 0.438 & 19 -\textgreater{} 15 -\textgreater{} 18 -\textgreater{} 8 -\textgreater{} 17 -\textgreater{} 10 -\textgreater{} 16 -\textgreater{} 13 -\textgreater{} 14 -\textgreater{} 11 -\textgreater{} 12 -\textgreater{} 7 -\textgreater{} 9 -\textgreater{} 6 -\textgreater{} 0 -\textgreater{} 5 -\textgreater{} 1 -\textgreater{} 2 -\textgreater{} 4 -\textgreater{} 3 & 0.729 \\
+Random\_Dense\_V20\_P0.5 & 20 & 93 & 19 -\textgreater{} 13 -\textgreater{} 18 -\textgreater{} 17 -\textgreater{} 14 -\textgreater{} 16 -\textgreater{} 9 -\textgreater{} 15 -\textgreater{} 8 -\textgreater{} 12 -\textgreater{} 11 -\textgreater{} 10 -\textgreater{} 4 -\textgreater{} 7 -\textgreater{} 2 -\textgreater{} 6 -\textgreater{} 5 -\textgreater{} 0 -\textgreater{} 3 -\textgreater{} 1 & 0.382 & 19 -\textgreater{} 13 -\textgreater{} 18 -\textgreater{} 17 -\textgreater{} 14 -\textgreater{} 16 -\textgreater{} 9 -\textgreater{} 15 -\textgreater{} 8 -\textgreater{} 12 -\textgreater{} 11 -\textgreater{} 10 -\textgreater{} 4 -\textgreater{} 7 -\textgreater{} 2 -\textgreater{} 6 -\textgreater{} 5 -\textgreater{} 0 -\textgreater{} 3 -\textgreater{} 1 & -0.453 \\
 \midrule
-Random\_Dense\_V22\_P0.5 & 22 & 119 & 21 -\textgreater{} 20 -\textgreater{} 19 -\textgreater{} 16 -\textgreater{} 18 -\textgreater{} 15 -\textgreater{} 17 -\textgreater{} 10 -\textgreater{} 13 -\textgreater{} 14 -\textgreater{} 11 -\textgreater{} 12 -\textgreater{} 6 -\textgreater{} 9 -\textgreater{} 7 -\textgreater{} 8 -\textgreater{} 0 -\textgreater{} 5 -\textgreater{} 1 -\textgreater{} 4 -\textgreater{} 3 -\textgreater{} 2 & 0.727 & 21 -\textgreater{} 20 -\textgreater{} 19 -\textgreater{} 16 -\textgreater{} 18 -\textgreater{} 15 -\textgreater{} 17 -\textgreater{} 10 -\textgreater{} 13 -\textgreater{} 14 -\textgreater{} 11 -\textgreater{} 12 -\textgreater{} 6 -\textgreater{} 9 -\textgreater{} 7 -\textgreater{} 8 -\textgreater{} 0 -\textgreater{} 5 -\textgreater{} 1 -\textgreater{} 4 -\textgreater{} 2 -\textgreater{} 3 & 1.284 \\
+Random\_Dense\_V22\_P0.5 & 22 & 114 & 21 -\textgreater{} 18 -\textgreater{} 20 -\textgreater{} 19 -\textgreater{} 15 -\textgreater{} 17 -\textgreater{} 12 -\textgreater{} 16 -\textgreater{} 7 -\textgreater{} 14 -\textgreater{} 2 -\textgreater{} 13 -\textgreater{} 6 -\textgreater{} 11 -\textgreater{} 9 -\textgreater{} 10 -\textgreater{} 4 -\textgreater{} 8 -\textgreater{} 1 -\textgreater{} 5 -\textgreater{} 0 -\textgreater{} 3 & 0.536 & 21 -\textgreater{} 18 -\textgreater{} 20 -\textgreater{} 19 -\textgreater{} 15 -\textgreater{} 17 -\textgreater{} 12 -\textgreater{} 16 -\textgreater{} 7 -\textgreater{} 14 -\textgreater{} 2 -\textgreater{} 13 -\textgreater{} 6 -\textgreater{} 11 -\textgreater{} 9 -\textgreater{} 10 -\textgreater{} 4 -\textgreater{} 8 -\textgreater{} 1 -\textgreater{} 5 -\textgreater{} 0 -\textgreater{} 3 & 0.961 \\
 \midrule
-Random\_Dense\_V25\_P0.5 & 25 & 151 & 24 -\textgreater{} 21 -\textgreater{} 23 -\textgreater{} 20 -\textgreater{} 22 -\textgreater{} 10 -\textgreater{} 19 -\textgreater{} 18 -\textgreater{} 11 -\textgreater{} 17 -\textgreater{} 16 -\textgreater{} 15 -\textgreater{} 14 -\textgreater{} 13 -\textgreater{} 12 -\textgreater{} 9 -\textgreater{} 8 -\textgreater{} 0 -\textgreater{} 7 -\textgreater{} 2 -\textgreater{} 6 -\textgreater{} 4 -\textgreater{} 3 -\textgreater{} 1 -\textgreater{} 5 & 0.850 & 24 -\textgreater{} 21 -\textgreater{} 23 -\textgreater{} 20 -\textgreater{} 22 -\textgreater{} 10 -\textgreater{} 19 -\textgreater{} 18 -\textgreater{} 11 -\textgreater{} 17 -\textgreater{} 16 -\textgreater{} 15 -\textgreater{} 14 -\textgreater{} 13 -\textgreater{} 12 -\textgreater{} 9 -\textgreater{} 8 -\textgreater{} 0 -\textgreater{} 7 -\textgreater{} 2 -\textgreater{} 6 -\textgreater{} 4 -\textgreater{} 3 -\textgreater{} 1 -\textgreater{} 5 & 1.623 \\
+Random\_Dense\_V25\_P0.5 & 25 & 160 & 24 -\textgreater{} 22 -\textgreater{} 23 -\textgreater{} 21 -\textgreater{} 13 -\textgreater{} 20 -\textgreater{} 10 -\textgreater{} 19 -\textgreater{} 17 -\textgreater{} 18 -\textgreater{} 0 -\textgreater{} 16 -\textgreater{} 15 -\textgreater{} 14 -\textgreater{} 12 -\textgreater{} 11 -\textgreater{} 9 -\textgreater{} 1 -\textgreater{} 8 -\textgreater{} 7 -\textgreater{} 6 -\textgreater{} 5 -\textgreater{} 4 -\textgreater{} 3 -\textgreater{} 2 & 0.890 & 24 -\textgreater{} 22 -\textgreater{} 23 -\textgreater{} 21 -\textgreater{} 13 -\textgreater{} 20 -\textgreater{} 10 -\textgreater{} 19 -\textgreater{} 17 -\textgreater{} 18 -\textgreater{} 0 -\textgreater{} 16 -\textgreater{} 15 -\textgreater{} 14 -\textgreater{} 12 -\textgreater{} 11 -\textgreater{} 9 -\textgreater{} 1 -\textgreater{} 8 -\textgreater{} 7 -\textgreater{} 6 -\textgreater{} 5 -\textgreater{} 4 -\textgreater{} 3 -\textgreater{} 2 & 1.407 \\
 \midrule
 \end{longtable}
 \end{document}

diff --git a/backend/HamToSAT/tests.py b/backend/HamToSAT/tests.py
@@ -11,7 +11,7 @@ import numpy as np
 OPTIMISED_MODULE_NAME = "optimized"
 CONVERTER_MODULE_NAME = "converter"
 OUTPUT_LATEX_FILE = "stress_test_results.tex"
-DEFAULT_TIMEOUT_SECONDS = 10  # Timeout for each HamSAT call on a single graph
+DEFAULT_TIMEOUT_SECONDS = 6  # Timeout for each HamSAT call on a single graph
 
 def plot_time_comparison(results):
     graph_names = [res['name'] for res in results]
